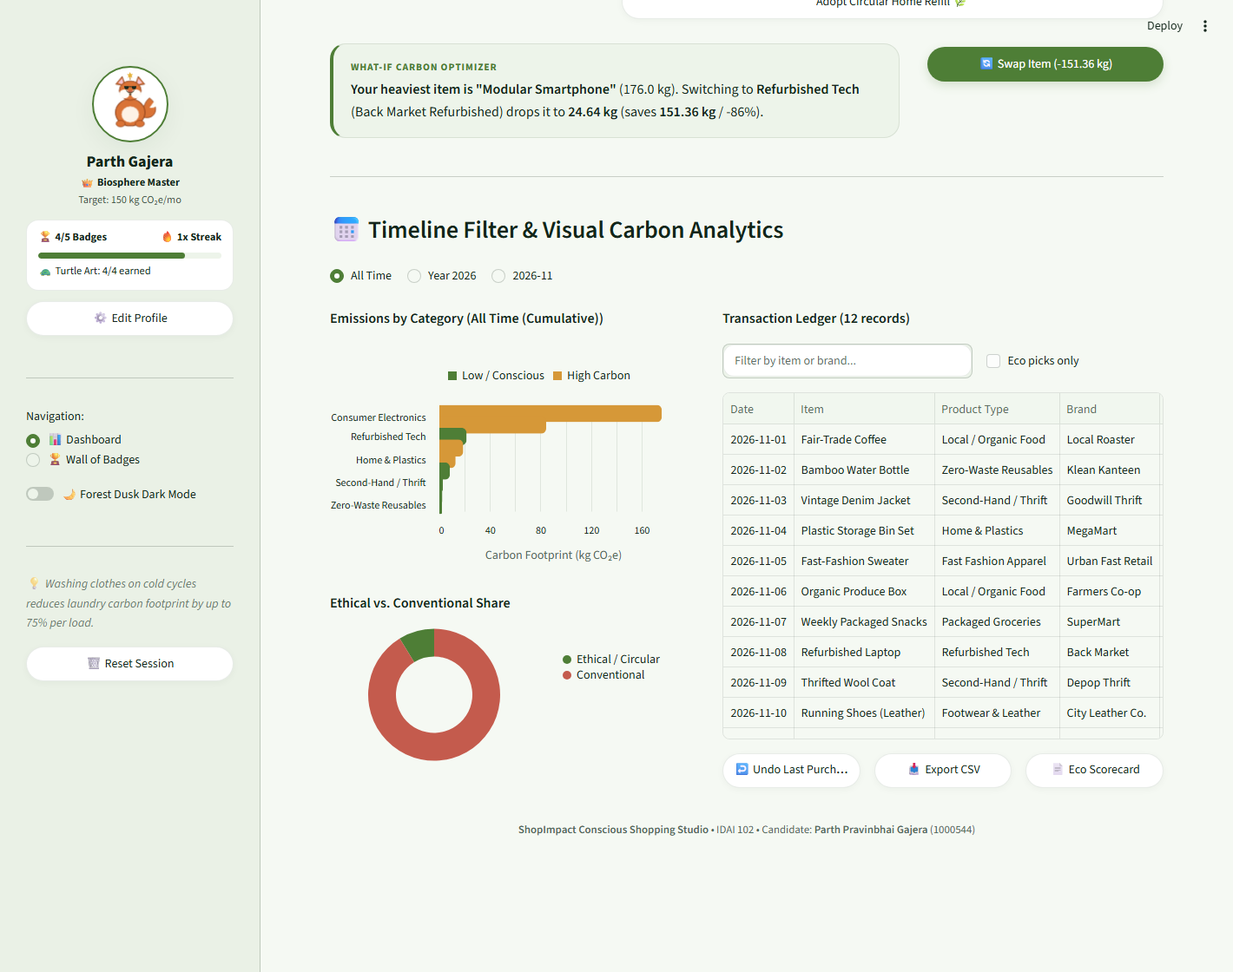
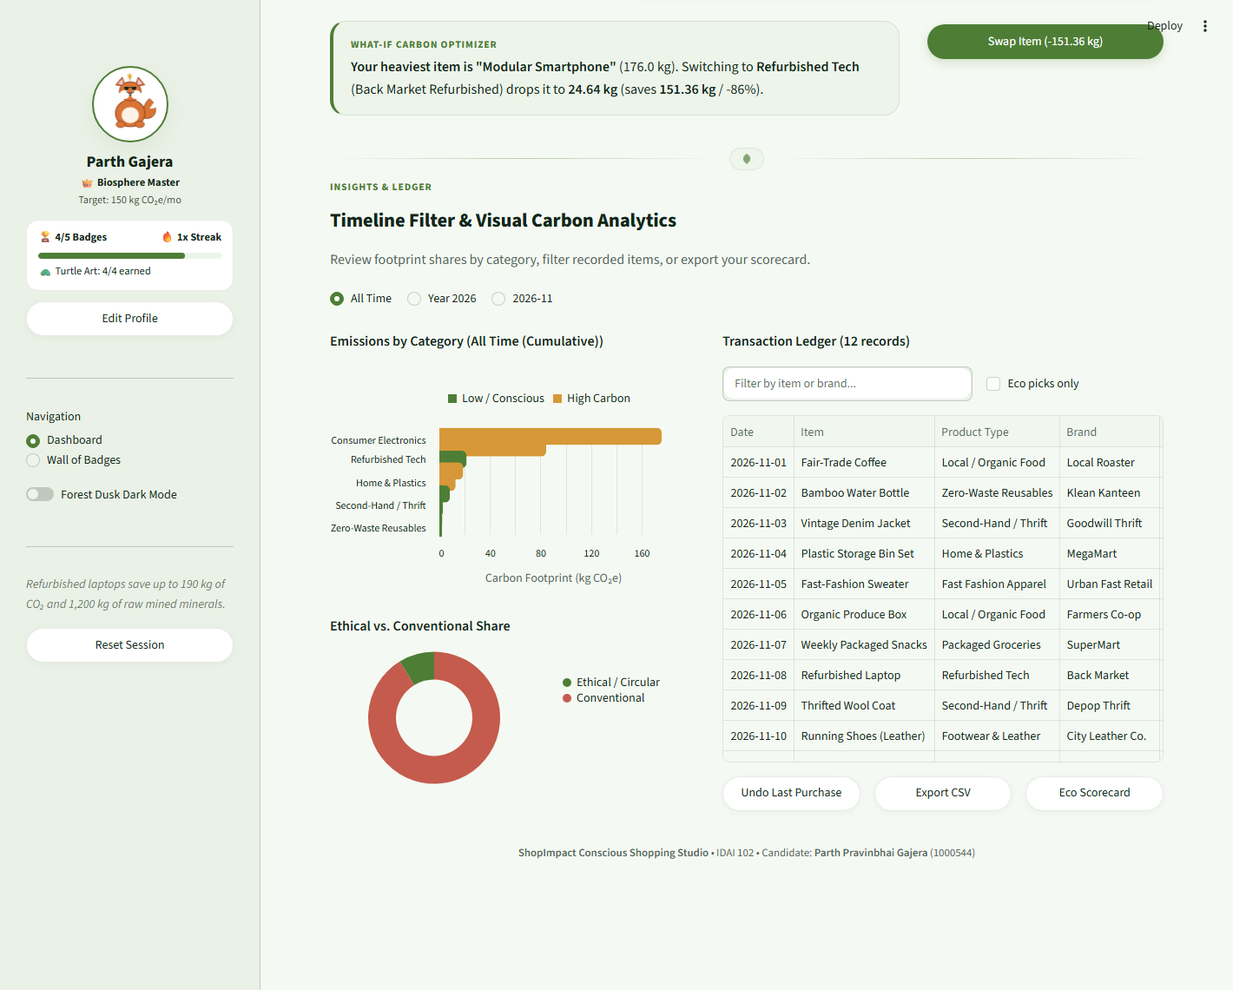
SA UX polish: first-view + Log Purchase modal dialog, emoji-free editorial titles, and botanical leaf section dividers

diff --git a/app.py b/app.py
@@ -25,6 +25,26 @@ def render_html(html_str: str):
     clean = "\n".join(line.strip() for line in html_str.splitlines() if line.strip())
     st.markdown(clean, unsafe_allow_html=True)
 
+def render_section_header(kicker: str, title: str, subtitle: str = ""):
+    sub_html = f'<p class="sec-sub">{html.escape(subtitle)}</p>' if subtitle else ""
+    ornament_svg = (
+        '<svg width="18" height="14" viewBox="0 0 18 14" xmlns="http://www.w3.org/2000/svg" style="display:block;">'
+        '<path d="M9 1 C13 3.5, 16 7.5, 9 13 C2 7.5, 5 3.5, 9 1 Z" fill="currentColor" opacity="0.85"/>'
+        '</svg>'
+    )
+    render_html(f"""
+    <div class="sec-wrap">
+      <div class="sec-divider">
+        <span class="sec-line"></span>
+        <span class="sec-ornament">{ornament_svg}</span>
+        <span class="sec-line"></span>
+      </div>
+      <div class="eyebrow" style="margin-top:0.65rem;">{html.escape(kicker)}</div>
+      <h3 class="sec-title">{html.escape(title)}</h3>
+      {sub_html}
+    </div>
+    """)
+
 # ------------------------------------------------------------------------------
 # DOMAIN DATA: CATEGORIES, MULTIPLIERS & CIRCULAR SWAPS
 # ------------------------------------------------------------------------------
@@ -636,7 +656,7 @@ if "mascot_mood" not in st.session_state: st.session_state.mascot_mood = "mindfu
 if "mascot_message" not in st.session_state:
     st.session_state.mascot_message = "Ready when you are! Log a purchase below to track CO₂ and unlock botanical art."
 if "nav_view" not in st.session_state:
-    st.session_state.nav_view = "🏆 Wall of Badges" if st.query_params.get("view") == "badges" else "📊 Dashboard"
+    st.session_state.nav_view = "Wall of Badges" if st.query_params.get("view") == "badges" else "Dashboard"
 if "last_logged" not in st.session_state: st.session_state.last_logged = None
 if "confirm_reset" not in st.session_state: st.session_state.confirm_reset = False
 
@@ -805,6 +825,24 @@ render_html(f"""
     margin: 0 auto; overflow: hidden; box-shadow: var(--shadow);
   }}
 
+  /* Editorial Botanical Section Dividers (Replaces plain HR dividers) */
+  .sec-wrap {{ margin: 1.55rem 0 0.75rem 0; }}
+  .sec-divider {{ display: flex; align-items: center; gap: 12px; opacity: 0.78; }}
+  .sec-line {{
+    flex: 1; height: 1px;
+    background: linear-gradient(90deg, transparent, var(--accent), transparent);
+    opacity: 0.45;
+  }}
+  .sec-ornament {{
+    color: var(--accent) !important; background: var(--soft); border: 1px solid var(--border);
+    padding: 5px 10px; border-radius: 99px; display: inline-flex; align-items: center; justify-content: center;
+  }}
+  .sec-title {{
+    margin: 0.12rem 0 0 0 !important; font-size: 1.4rem !important; font-weight: 800 !important;
+    letter-spacing: -0.35px; color: var(--ink) !important;
+  }}
+  .sec-sub {{ margin: 0.18rem 0 0 0 !important; font-size: 0.86rem; color: var(--muted) !important; }}
+
   /* Responsive Phone & Tablet Breakpoints */
   @media (max-width: 920px) {{
     .studio-grid {{ grid-template-columns: 1fr !important; }}
@@ -812,6 +850,29 @@ render_html(f"""
   }}
 </style>
 """)
+
+@st.dialog("Log a New Planned Purchase")
+def open_main_log_dialog():
+    """Instant first-view custom purchase logging modal triggered from the top Studio bar."""
+    st.caption("Enter purchase details below to update your live monthly CO₂ footprint and rewards right away.")
+    m_item = st.text_input("Item Description (Required)", placeholder="e.g. Organic Cotton Tee, USB-C Cable", key="modal_item")
+    mc1, mc2 = st.columns(2)
+    m_cat = mc1.selectbox("Product Category", options=list(CATEGORIES.keys()), key="modal_cat")
+    m_brand = mc2.text_input("Brand or Vendor (Optional)", placeholder="e.g. Patagonia, Back Market", key="modal_brand")
+    mc3, mc4 = st.columns(2)
+    m_price = mc3.number_input("Purchase Price ($)", min_value=1.0, max_value=5000.0, value=45.0, step=5.0, key="modal_price")
+    m_date = mc4.date_input("Purchase Date", value=date.today(), key="modal_date")
+    m_eth = st.checkbox("Certified Circular, Thrift, or Ethical (30% CO₂ discount)", key="modal_eth")
+    ci_m = CATEGORIES[m_cat]
+    st.caption(f"Insight ({ci_m['tier'].split()[-1]}): {ci_m['fact']}")
+    if st.button("Record Purchase", type="primary", width="stretch", key="modal_submit_btn"):
+        if not m_item.strip():
+            st.error("Please enter an item description before recording.")
+        else:
+            new_it, mood, msg, art = add_purchase(st.session_state.purchases, m_item, m_cat, m_brand, m_price, m_date, m_eth, st.session_state.user_mascot)
+            st.session_state.last_logged = new_it
+            st.session_state.mascot_mood, st.session_state.mascot_message, st.session_state.recent_art = mood, msg, art
+            st.rerun()
 
 # ------------------------------------------------------------------------------
 # SCREEN 1: WELCOME & ONBOARDING (Ecovista-Inspired Landscape + Man & Turtle)
@@ -877,21 +938,21 @@ else:
           <div style="margin-top:0.35rem; color:{T['muted']};">🐢 Turtle Art: {len(earned_arts)}/4 earned</div>
         </div>
         """)
-        if st.button("⚙ Edit Profile", width="stretch"):
+        if st.button("Edit Profile", width="stretch"):
             st.session_state.onboarded = False
             st.rerun()
 
         st.markdown("---")
-        st.session_state.nav_view = st.radio("Navigation:", ["📊 Dashboard", "🏆 Wall of Badges"], index=1 if st.session_state.nav_view == "🏆 Wall of Badges" else 0)
-        dark_toggle = st.toggle("🌙 Forest Dusk Dark Mode", value=st.session_state.dark_theme)
+        st.session_state.nav_view = st.radio("Navigation", ["Dashboard", "Wall of Badges"], index=1 if st.session_state.nav_view == "Wall of Badges" else 0)
+        dark_toggle = st.toggle("Forest Dusk Dark Mode", value=st.session_state.dark_theme)
         if dark_toggle != st.session_state.dark_theme:
             st.session_state.dark_theme = dark_toggle
             st.rerun()
 
         st.markdown("---")
-        st.caption(f"💡 *{random.choice(ECO_TIPS)}*")
+        st.caption(f"*{random.choice(ECO_TIPS)}*")
         if not st.session_state.confirm_reset:
-            if st.button("🗑 Reset Session", width="stretch"):
+            if st.button("Reset Session", width="stretch"):
                 st.session_state.confirm_reset = True
                 st.rerun()
         else:
@@ -906,31 +967,35 @@ else:
                 st.session_state.confirm_reset = False
                 st.rerun()
 
-    # CLEAN TOP BAR (Inspired by Ecovista Navbar — open typography, zero boxes)
-    h1, h2 = st.columns([2.05, 1.15])
+    # CLEAN TOP BAR WITH FIRST-VIEW LOG ACTION (Zero friction entry)
+    h1, h2 = st.columns([1.65, 1.55])
     with h1:
         render_html(f"""
         <div class="nav-head">
           <div>
-            <span style="font-size:1.45rem; font-weight:900; letter-spacing:-0.4px; color:{T['ink']};">🌱 ShopImpact</span>
+            <span style="font-size:1.45rem; font-weight:900; letter-spacing:-0.4px; color:{T['ink']};">ShopImpact</span>
             <span style="font-size:0.86rem; color:{T['muted']}; margin-left:0.65rem;">Welcome back, <strong>{html.escape(st.session_state.user_name)}</strong> • Saved {saved_tot:.1f} kg CO₂e</span>
           </div>
-          <span class="streak-tag">🔥 {cur_streak}x Eco Streak</span>
+          <span class="streak-tag">{cur_streak}x Eco Streak</span>
         </div>
         """)
     with h2:
-        n1, n2 = st.columns(2)
-        if n1.button("📊 Dashboard", type="primary" if st.session_state.nav_view == "📊 Dashboard" else "secondary", width="stretch", key="top_nav_dash"):
-            st.session_state.nav_view = "📊 Dashboard"
+        n_log, n1, n2 = st.columns([1.25, 0.9, 1.05])
+        if n_log.button("+ Log Purchase", type="primary", width="stretch", key="top_open_log_btn"):
+            open_main_log_dialog()
+        dash_lbl = "● Dashboard" if st.session_state.nav_view == "Dashboard" else "Dashboard"
+        if n1.button(dash_lbl, type="secondary", width="stretch", key="top_nav_dash"):
+            st.session_state.nav_view = "Dashboard"
             st.rerun()
-        if n2.button(f"🏆 Badges ({unlocked_num}/{len(badges)})", type="primary" if st.session_state.nav_view == "🏆 Wall of Badges" else "secondary", width="stretch", key="top_nav_badges"):
-            st.session_state.nav_view = "🏆 Wall of Badges"
+        badge_lbl = f"{'● ' if st.session_state.nav_view == 'Wall of Badges' else ''}Badges ({unlocked_num}/{len(badges)})"
+        if n2.button(badge_lbl, type="secondary", width="stretch", key="top_nav_badges"):
+            st.session_state.nav_view = "Wall of Badges"
             st.rerun()
 
     # --------------------------------------------------------------------------
-    # VIEW: 📊 DASHBOARD
+    # VIEW: DASHBOARD
     # --------------------------------------------------------------------------
-    if st.session_state.nav_view == "📊 Dashboard":
+    if st.session_state.nav_view == "Dashboard":
         c_name = st.session_state.user_mascot.split()[0]
         msg_esc = html.escape(st.session_state.mascot_message)
         b_lim = max(st.session_state.carbon_budget, 1)
@@ -941,9 +1006,9 @@ else:
         art_img = draw_vector_art(active_art)
         art_uri = image_to_data_uri(art_img)
         art_titles = {"preview": "Seed Emblem (Log eco buy)", "leaf": "Botanical Eco Leaf", "footprint": "Earth Step Medallion", "traveler": "Mindful Walker & Turtle", "badge": "Championship Rosette"}
-        mission_lbl = "✅ Daily Eco Mission Complete" if eth_cnt >= 1 else "🌱 Log 1 circular purchase today"
+        mission_lbl = "Daily Eco Mission Complete" if eth_cnt >= 1 else "Goal: Log 1 circular purchase"
 
-        # EQUAL-HEIGHT 3-CARD BOTANICAL STUDIO GRID (Unified height & mobile stackable!)
+        # EQUAL-HEIGHT 3-CARD BOTANICAL STUDIO GRID
         render_html(f"""
         <div class="studio-grid">
           <div class="studio-panel">
@@ -984,9 +1049,9 @@ else:
             <div style="width:100%;">
               <div style="font-size:0.8rem; font-weight:700; color:{T['ink']}; margin-bottom:0.35rem;">{art_titles.get(active_art, 'Botanical Art')}</div>
               <div style="display:flex; justify-content:center; gap:6px; font-size:0.72rem; font-weight:700; color:{T['muted']};">
-                <span style="padding:2px 8px; border-radius:99px; background:{T['accent_soft'] if 'leaf' in earned_arts else T['soft']};">🌿 Leaf</span>
-                <span style="padding:2px 8px; border-radius:99px; background:{T['accent_soft'] if 'footprint' in earned_arts else T['soft']};">👣 Step</span>
-                <span style="padding:2px 8px; border-radius:99px; background:{T['accent_soft'] if 'badge' in earned_arts else T['soft']};">⭐ Medal</span>
+                <span style="padding:2px 9px; border-radius:99px; background:{T['accent_soft'] if 'leaf' in earned_arts else T['soft']};">Leaf</span>
+                <span style="padding:2px 9px; border-radius:99px; background:{T['accent_soft'] if 'footprint' in earned_arts else T['soft']};">Step</span>
+                <span style="padding:2px 9px; border-radius:99px; background:{T['accent_soft'] if 'badge' in earned_arts else T['soft']};">Medal</span>
               </div>
             </div>
           </div>
@@ -995,7 +1060,7 @@ else:
 
         if st.session_state.recent_art:
             _, dl_col = st.columns([2.2, 1.0])
-            dl_col.download_button("🎨 Download Earned Turtle Art (.png)", image_to_png_bytes(art_img), f"shopimpact_{active_art}.png", "image/png", width="stretch")
+            dl_col.download_button("Download Earned Turtle Art (.png)", image_to_png_bytes(art_img), f"shopimpact_{active_art}.png", "image/png", width="stretch")
 
         # 4 KPI CARDS
         k1, k2, k3, k4 = st.columns(4)
@@ -1014,7 +1079,7 @@ else:
         """)
 
         # QUICK-LOG CHIPS
-        st.subheader("⚡ Quick-Log Common Purchases")
+        render_section_header("Fast Entry", "Quick-Log Common Purchases", "One-tap logging with pre-calibrated category emission multipliers.")
         chip_cols = st.columns(6)
         for i, qp in enumerate(QUICK_PURCHASES):
             co2_c = calculate_carbon(qp["price"], qp["category"], qp["is_ethical"])
@@ -1034,7 +1099,7 @@ else:
                     st.rerun()
 
         # CUSTOM LOGGING FORM
-        st.subheader("🛒 Log a Custom Planned Purchase")
+        render_section_header("Custom Purchase Log", "Log a Custom Planned Purchase", "Record any custom purchase into your active list; ethical picks apply a 30% CO₂ reduction.")
         with st.form("custom_log_form", clear_on_submit=True):
             f1, f2, f3 = st.columns([1.2, 1.2, 1.0])
             item_name = f1.text_input("Item Description (Required)", placeholder="e.g. Organic Cotton Tee, USB-C Cable")
@@ -1042,11 +1107,11 @@ else:
             brand_val = f2.text_input("Brand or Vendor (Optional)", placeholder="e.g. Patagonia, Back Market")
             price_val = f2.number_input("Purchase Price ($) (Required)", min_value=1.0, max_value=5000.0, value=45.0, step=5.0)
             date_val = f3.date_input("Purchase Date (Required)", value=date.today())
-            is_eth = f3.checkbox("🌱 Certified Circular / Thrift / Ethical", help="Applies a 30% footprint discount.")
+            is_eth = f3.checkbox("Certified Circular / Thrift / Ethical", help="Applies a 30% footprint discount.")
 
             ci = CATEGORIES[cat_choice]
             render_html(f"<div style='background:{T['soft']}; border-radius:14px; padding:0.75rem 1rem; margin:0.5rem 0; font-size:0.85rem;'><strong>Insight ({ci['tier']}):</strong> {ci['fact']} <span style='color:{T['accent']}; font-weight:700;'>• Tip: {random.choice(ECO_TIPS)}</span></div>")
-            if st.form_submit_button("🌿 Record Purchase in Active Ledger", width="stretch"):
+            if st.form_submit_button("Record Purchase in Active Ledger", width="stretch"):
                 if not item_name.strip():
                     st.error("Please enter an item description before recording.")
                 else:
@@ -1056,15 +1121,15 @@ else:
                     if mood in ["ecstatic", "happy"]: st.balloons()
                     st.rerun()
 
-        with st.expander("🌲 Interactive Carbon & Tree Offset Simulator", expanded=False):
+        with st.expander("Pre-Purchase Carbon & Tree Offset Simulator", expanded=False):
             sc1, sc2 = st.columns([1.2, 1.0])
             sim_d = sc1.slider("Simulate Dollar Spend ($):", 5.0, 500.0, 75.0, 5.0)
             sim_c = sc1.selectbox("Simulate Category:", list(CATEGORIES.keys()), key="sim_cat")
             sim_e = sc1.checkbox("Certified Circular / Ethical?", True, key="sim_eth")
             s_co2 = calculate_carbon(sim_d, sim_c, sim_e)
             sm, sch, st_m = get_equivalency(s_co2)
-            render_html(f"<div style='background:{T['soft']}; border-radius:16px; padding:1rem;'><div class='eyebrow'>Estimated CO₂</div><div style='font-size:1.75rem; font-weight:800; color:{T['accent']};'>{s_co2:.2f} kg</div><div style='font-size:0.84rem; margin-top:0.35rem;'>🚗 ~{sm:,} car miles • 📱 ~{sch:,} charges • 🌲 ~{st_m} tree-mo</div></div>", )
-            if sc2.button("➕ Add Simulated Item to Tracker", width="stretch"):
+            render_html(f"<div style='background:{T['soft']}; border-radius:16px; padding:1rem;'><div class='eyebrow'>Estimated CO₂</div><div style='font-size:1.75rem; font-weight:800; color:{T['accent']};'>{s_co2:.2f} kg</div><div style='font-size:0.84rem; margin-top:0.35rem;'>~{sm:,} car miles • ~{sch:,} phone charges • ~{st_m} tree-mo</div></div>")
+            if sc2.button("+ Add Simulated Item to Tracker", width="stretch"):
                 si, mood, msg, art = add_purchase(st.session_state.purchases, f"Simulated: {sim_c.split()[0]} (${sim_d:.0f})", sim_c, "Simulation Tool", sim_d, date.today(), sim_e, st.session_state.user_mascot)
                 st.session_state.last_logged, st.session_state.mascot_mood, st.session_state.mascot_message, st.session_state.recent_art = si, mood, msg, art
                 st.rerun()
@@ -1072,11 +1137,11 @@ else:
         # GREENER SWAPS
         if st.session_state.last_logged:
             last = st.session_state.last_logged
-            st.subheader(f"🌱 Greener Alternatives for '{last['item']}' ({last['category']})")
+            render_section_header("Circular Alternatives", f"Greener Options for '{last['item']}'", f"Category: {last['category']}")
             sc1, sc2 = st.columns([1.0, 2.0], gap="medium")
             with sc1:
                 render_html(render_animated_avatar_svg(st.session_state.user_mascot, "happy", 105, 105))
-                st.caption(f"💡 **{c_name}:** Logged **{last['carbon_kg']} kg CO₂e**. Try a circular swap:")
+                st.caption(f"**{c_name}:** Logged **{last['carbon_kg']} kg CO₂e**. Consider a circular swap:")
             with sc2:
                 swaps = ETHICAL_ALTERNATIVES.get(last["category"], [])
                 sw_cols = st.columns(len(swaps))
@@ -1084,7 +1149,7 @@ else:
                     with sw_cols[idx]:
                         render_html(f"<div class='swap-card'><strong>{sw['brand']}</strong><br><span style='font-size:0.83rem; color:{T['muted']};'>{sw['perk']}</span><br><strong style='color:{T['accent']}; font-size:0.8rem;'>Carbon Cut: {sw['saving']}</strong></div>")
                         b_name = sw["brand"].split("/")[0].strip()
-                        if st.button(f"Adopt {b_name} 🌿", key=f"adopt_swap_{idx}", width="stretch"):
+                        if st.button(f"Adopt {b_name}", key=f"adopt_swap_{idx}", width="stretch"):
                             sr, _, _, _ = add_purchase(st.session_state.purchases, f"Greener Swap: {b_name} ({last['category']})", last["category"], b_name, 35.0, date.today(), True, st.session_state.user_mascot)
                             st.session_state.last_logged, st.session_state.mascot_mood, st.session_state.recent_art = sr, "ecstatic", "badge"
                             st.session_state.mascot_message = f"Adopted {b_name}! Great biosphere boost."
@@ -1099,18 +1164,17 @@ else:
             op1.markdown(f"<div class='optimizer-panel'><div class='eyebrow'>What-If Carbon Optimizer</div><strong>Your heaviest item is \"{html.escape(it['item'])}\"</strong> ({swap_opp['cur_co2']} kg). Switching to <strong>{swap_opp['target_cat']}</strong> ({swap_opp['brand_suggestion']}) drops it to <strong>{swap_opp['alt_co2']} kg</strong> (saves <strong>{swap_opp['saved_diff']} kg</strong> / -{swap_opp['pct_drop']}%).</div>", unsafe_allow_html=True)
             with op2:
                 st.markdown("<div style='height:0.65rem;'></div>", unsafe_allow_html=True)
-                if st.button(f"🔄 Swap Item (-{swap_opp['saved_diff']} kg)", type="primary", width="stretch", key="opt_swap_btn"):
+                if st.button(f"Swap Item (-{swap_opp['saved_diff']} kg)", type="primary", width="stretch", key="opt_swap_btn"):
                     tr = st.session_state.purchases[swap_opp["index"]]
                     tr["item"], tr["category"], tr["brand"], tr["carbon_kg"], tr["is_ethical"] = f"Swapped: {tr['item']} (Circular)", swap_opp["target_cat"], swap_opp["brand_suggestion"].split("/")[0].strip(), swap_opp["alt_co2"], True
                     st.session_state.last_logged, st.session_state.mascot_mood, st.session_state.recent_art = tr, "ecstatic", "badge"
                     st.session_state.mascot_message = f"Smart switch! Saved {swap_opp['saved_diff']} kg CO₂ instantly!"
                     st.rerun()
 
-        st.markdown("---")
+        render_section_header("Insights & Ledger", "Timeline Filter & Visual Carbon Analytics", "Review footprint shares by category, filter recorded items, or export your scorecard.")
         yrs = sorted({str(p["date"])[:4] for p in st.session_state.purchases}, reverse=True)
         mos = sorted({str(p["date"])[:7] for p in st.session_state.purchases}, reverse=True)
         f_opts = ["All Time"] + [f"Year {y}" for y in yrs] + mos
-        st.subheader("📅 Timeline Filter & Visual Carbon Analytics")
         p_choice = st.radio("Period", f_opts, horizontal=True, label_visibility="collapsed")
         if p_choice == "All Time":
             filtered, p_lbl = st.session_state.purchases, "All Time (Cumulative)"
@@ -1169,7 +1233,7 @@ else:
                     st.info("No rows match that search filter.")
 
                 u1, u2, u3 = st.columns(3)
-                if u1.button("↩ Undo Last Purchase", width="stretch"):
+                if u1.button("Undo Last Purchase", width="stretch"):
                     popped = st.session_state.purchases.pop()
                     prev = st.session_state.purchases[-1] if st.session_state.purchases else None
                     st.session_state.last_logged = prev
@@ -1179,16 +1243,16 @@ else:
                         st.session_state.mascot_mood, st.session_state.recent_art = "mindful", None
                         st.session_state.mascot_message = f"Removed '{popped['item']}'. Log your next purchase!"
                     st.rerun()
-                u2.download_button("📥 Export CSV", df_view.to_csv(index=False).encode("utf-8"), f"shopimpact_{p_lbl.lower().replace(' ', '_')}.csv", "text/csv", width="stretch")
-                u3.download_button("📄 Eco Scorecard", build_eco_scorecard_markdown(st.session_state.user_name, rank_title, st.session_state.carbon_budget, spend_tot, co2_tot, saved_tot, badges, cur_streak, top_cat_name).encode("utf-8"), "shopimpact_scorecard.md", "text/markdown", width="stretch")
+                u2.download_button("Export CSV", df_view.to_csv(index=False).encode("utf-8"), f"shopimpact_{p_lbl.lower().replace(' ', '_')}.csv", "text/csv", width="stretch")
+                u3.download_button("Eco Scorecard", build_eco_scorecard_markdown(st.session_state.user_name, rank_title, st.session_state.carbon_budget, spend_tot, co2_tot, saved_tot, badges, cur_streak, top_cat_name).encode("utf-8"), "shopimpact_scorecard.md", "text/markdown", width="stretch")
             else:
                 st.caption("No records to export yet.")
 
     # --------------------------------------------------------------------------
-    # VIEW: 🏆 WALL OF BADGES & TURTLE ART VAULT
+    # VIEW: WALL OF BADGES & TURTLE ART VAULT
     # --------------------------------------------------------------------------
-    elif st.session_state.nav_view == "🏆 Wall of Badges":
-        st.title("🏆 Wall of Badges & Eco Fame")
+    elif st.session_state.nav_view == "Wall of Badges":
+        st.title("Wall of Badges & Eco Fame")
         st.caption("Unlocked milestones bloom in botanical olive-green while upcoming goals remain muted until achieved.")
         st.metric("Badges Unlocked", f"{unlocked_num} of {len(badges)}", f"{int((unlocked_num/len(badges))*100)}% Complete")
 
@@ -1196,13 +1260,11 @@ else:
         for i, b in enumerate(badges):
             with (bc1 if i % 2 == 0 else bc2):
                 if b["unlocked"]:
-                    render_html(f"<div class='badge-on'><div style='display:flex; gap:1rem; align-items:center;'><div style='font-size:2.7rem;'>{b['icon']}</div><div><h3 style='margin:0;'>{b['name']}</h3><p style='margin:0.2rem 0; font-size:0.9rem;'>{b['desc']}</p><span style='background:rgba(255,255,255,0.2); font-weight:800; font-size:0.75rem; padding:0.2rem 0.65rem; border-radius:99px;'>✨ UNLOCKED ({b['progress']})</span></div></div></div>")
+                    render_html(f"<div class='badge-on'><div style='display:flex; gap:1rem; align-items:center;'><div style='font-size:2.7rem;'>{b['icon']}</div><div><h3 style='margin:0;'>{b['name']}</h3><p style='margin:0.2rem 0; font-size:0.9rem;'>{b['desc']}</p><span style='background:rgba(255,255,255,0.2); font-weight:800; font-size:0.75rem; padding:0.2rem 0.65rem; border-radius:99px;'>UNLOCKED ({b['progress']})</span></div></div></div>")
                 else:
-                    render_html(f"<div class='badge-off'><div style='display:flex; gap:1rem; align-items:center;'><div style='font-size:2.7rem;'>🔒</div><div><h3 style='margin:0;'>{b['name']}</h3><p style='margin:0.2rem 0; font-size:0.9rem;'>{b['desc']}</p><span style='font-weight:700; font-size:0.75rem;'>🔒 LOCKED ({b['progress']})</span></div></div></div>")
+                    render_html(f"<div class='badge-off'><div style='display:flex; gap:1rem; align-items:center;'><div style='font-size:2.7rem;'>🔒</div><div><h3 style='margin:0;'>{b['name']}</h3><p style='margin:0.2rem 0; font-size:0.9rem;'>{b['desc']}</p><span style='font-weight:700; font-size:0.75rem;'>LOCKED ({b['progress']})</span></div></div></div>")
 
-        st.markdown("---")
-        st.subheader("🐢 Procedural Turtle Vector Art Vault")
-        st.caption(f"Collect all 4 botanical emblems drawn in-memory by HeadlessTurtle + Pillow ({len(earned_arts)}/4 unlocked).")
+        render_section_header("Procedural Vector Vault", "Turtle Art Collector Vault", f"Collect all 4 botanical emblems drawn in-memory by HeadlessTurtle + Pillow ({len(earned_arts)}/4 unlocked).")
         v_cols = st.columns(4, gap="medium")
         art_specs = [
             ("leaf", "Botanical Eco Leaf", "Ethical or organic picks"),
@@ -1213,6 +1275,6 @@ else:
         for col_v, (ak, title_a, desc_a) in zip(v_cols, art_specs):
             unlocked_art = ak in earned_arts
             img_u = image_to_data_uri(draw_vector_art(ak if unlocked_art else "preview"))
-            col_v.markdown(f"<div class='studio-panel' style='align-items:center; text-align:center; padding:1rem;'><img src='{img_u}' style='width:140px; height:140px;'/><div style='font-weight:800; font-size:0.86rem; margin-top:0.3rem;'>{'✨ ' if unlocked_art else '🔒 '}{title_a}</div><div style='font-size:0.76rem; color:{T['muted']};'>{desc_a}</div></div>", unsafe_allow_html=True)
+            col_v.markdown(f"<div class='studio-panel' style='align-items:center; text-align:center; padding:1rem;'><img src='{img_u}' style='width:140px; height:140px;'/><div style='font-weight:800; font-size:0.86rem; margin-top:0.3rem;'>{title_a}</div><div style='font-size:0.76rem; color:{T['muted']};'>{'Unlocked • ' if unlocked_art else 'Locked • '}{desc_a}</div></div>", unsafe_allow_html=True)
 
 render_html(f"<div style='text-align:center; color:{T['muted']}; font-size:0.8rem; padding:1.4rem 0 0.6rem 0;'><strong>ShopImpact Conscious Shopping Studio</strong> • IDAI 102 • Candidate: <strong>Parth Pravinbhai Gajera</strong> (1000544)</div>")
